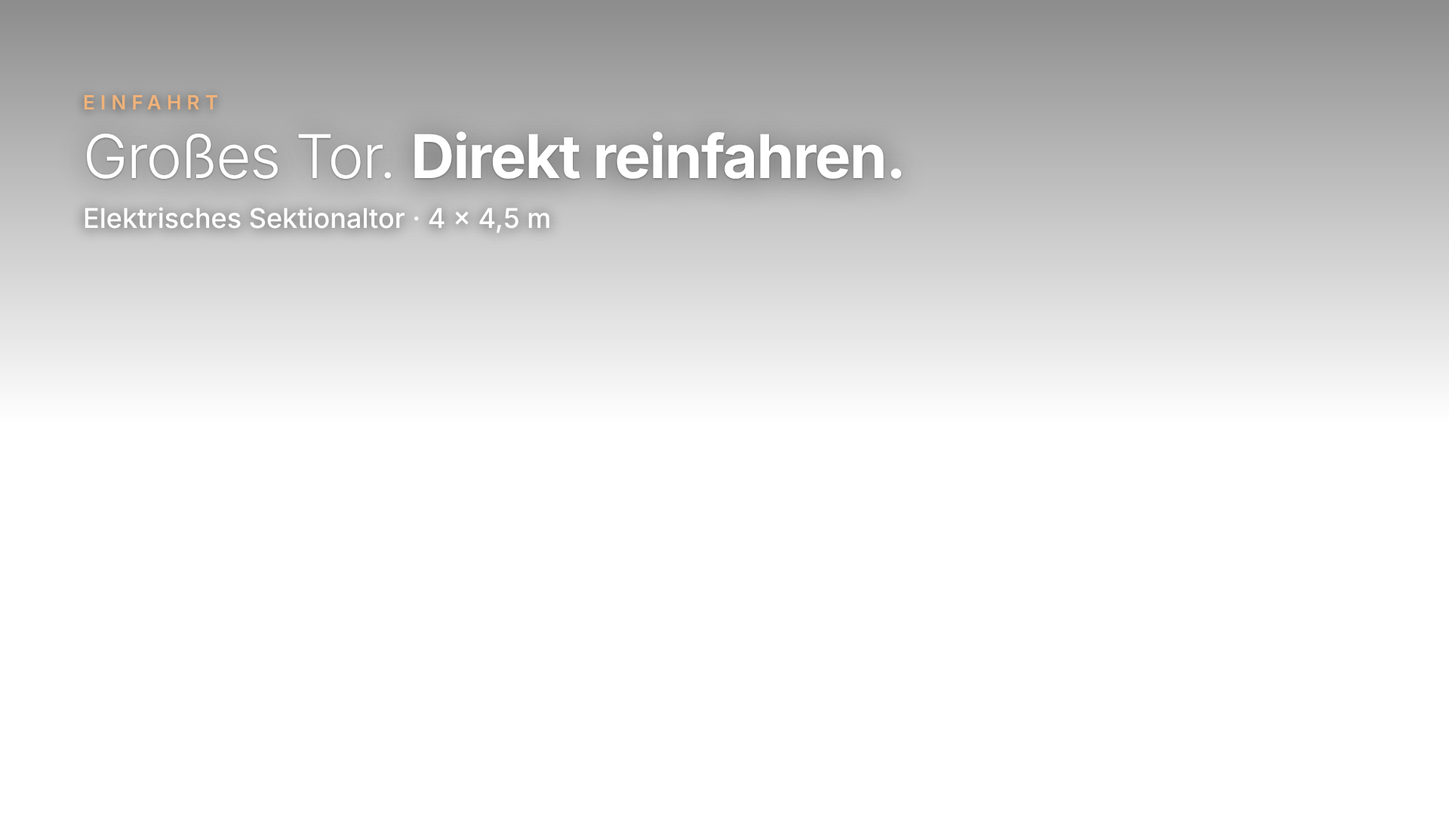
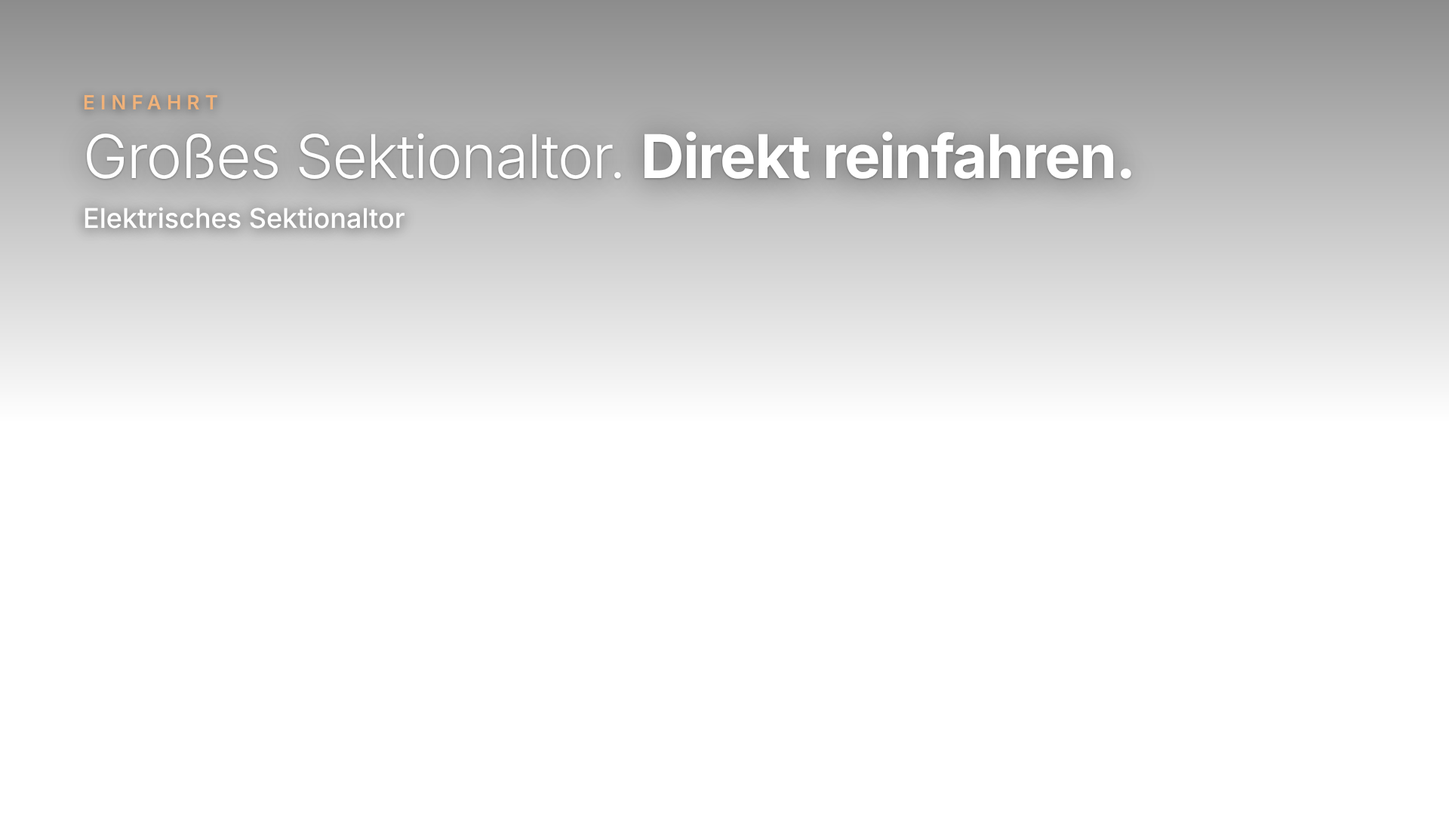
Film 2 v2: Vorschaubild als beschriftete Schnittansicht (16:9, 9:16, eigenes 4:5) mit Fakten, Sektionaltor ohne Maßangabe, Endcard auf ca. 7 s gekürzt
Claude-Session: https://claude.ai/code/session_01XYoivL69tqg2u7xhxccvYQ

Changed region(s): [[0.1875, 0.1528, 0.7812, 0.3056]]

diff --git a/schmacher-werbevideo/3d/titles45.html b/schmacher-werbevideo/3d/titles45.html
@@ -1,0 +1,75 @@
+<!doctype html><html lang="de"><head><meta charset="utf-8"><title>Titel 9:16</title>
+<style>
+html,body{margin:0;background:transparent;width:1080px;height:1350px;overflow:hidden;font-family:Inter,sans-serif;color:#fff}
+.t{position:absolute;left:0;right:0;padding:0 80px;display:none}
+.t.on{display:block}
+.kicker{font-weight:600;letter-spacing:.28em;text-transform:uppercase;font-size:26px;color:#f0b27a;text-shadow:0 2px 14px rgba(0,0,0,.6)}
+.big{font-weight:300;font-size:84px;letter-spacing:-.02em;line-height:1.04;text-shadow:0 4px 40px rgba(0,0,0,.55),0 1px 3px rgba(0,0,0,.35)}
+.big b{font-weight:700}
+.sub{font-weight:500;font-size:36px;line-height:1.3;margin-top:18px;text-shadow:0 2px 18px rgba(0,0,0,.7)}
+.rule{width:72px;height:4px;background:#c27a3e;margin-bottom:26px}
+.top{top:350px}.bot{bottom:400px}
+.scrim-top{position:absolute;left:0;right:0;top:-300px;height:950px;background:linear-gradient(rgba(0,0,0,0) 0%,rgba(0,0,0,.4) 38%,rgba(0,0,0,.3) 60%,rgba(0,0,0,0) 100%)}
+.scrim-bot{position:absolute;left:0;right:0;bottom:-330px;height:950px;background:linear-gradient(rgba(0,0,0,0) 0%,rgba(0,0,0,.3) 40%,rgba(0,0,0,.42) 65%,rgba(0,0,0,0) 100%)}
+#end{position:absolute;inset:0;display:none;flex-direction:column;align-items:center;justify-content:center;
+ background:radial-gradient(ellipse at 50% 42%,#fbfbfc 0%,#eef0f3 70%,#e3e6ea 100%);color:#0f182a;text-align:center}
+#end.on{display:flex}
+#end .logo{width:700px;margin-bottom:40px}
+#end .claim{font-weight:300;font-size:64px;line-height:1.12;color:#2a3242}
+#end .claim b{font-weight:700;color:#0f182a}
+#end .small{font-size:32px;color:#808185;margin-top:22px;line-height:1.4}
+#end .line{width:120px;height:4px;background:#c27a3e;margin:40px 0 34px}
+#end .ph{font-weight:700;font-size:72px;letter-spacing:.03em}
+#end .web{font-weight:500;font-size:38px;color:#2a3242;margin-top:10px}
+#end .mail{font-size:32px;color:#808185;margin-top:6px}
+
+.pill{display:inline-block;background:#c27a3e;color:#fff;font-weight:700;letter-spacing:.18em;text-transform:uppercase;font-size:28px;padding:14px 30px;border-radius:999px;box-shadow:0 6px 24px rgba(0,0,0,.35)}
+#cover .big{font-size:132px;line-height:.98}
+#cover .sub{font-size:46px;font-weight:600;margin-top:28px}
+.card{position:absolute;left:80px;right:80px;background:#fff;border-radius:28px;box-shadow:0 12px 50px rgba(0,0,0,.45);display:flex;align-items:center;gap:34px;padding:26px 36px;color:#0f182a}
+.card img{width:330px}
+.card .r{flex:1;text-align:right}
+.card .k{font-weight:700;letter-spacing:.16em;text-transform:uppercase;font-size:24px;color:#c27a3e}
+.card .p{font-weight:800;font-size:54px;letter-spacing:.02em;margin-top:4px}
+#end .cta{display:flex;flex-direction:column;align-items:center}
+#end .btn{display:flex;align-items:center;gap:16px;background:#c27a3e;color:#fff;font-weight:700;letter-spacing:.16em;text-transform:uppercase;font-size:34px;padding:20px 48px;border-radius:999px;box-shadow:0 10px 30px rgba(194,122,62,.35);margin-bottom:26px}
+#end .btn svg{width:38px;height:38px}
+body.ctaonly #end{background:none} body.ctaonly #end > :not(.cta){visibility:hidden}
+body.nocta #end .cta, body.nocta #end2 .cta{visibility:hidden}
+
+#end2{position:absolute;inset:0;display:none;flex-direction:column;align-items:center;justify-content:center;background:radial-gradient(ellipse at 50% 42%,#fbfbfc 0%,#eef0f3 70%,#e3e6ea 100%);color:#0f182a;text-align:center}
+#end2.on{display:flex}
+#end2 .logo{width:700px;margin-bottom:40px}
+#end2 .claim{font-weight:300;font-size:64px;line-height:1.12;color:#2a3242}
+#end2 .claim b{font-weight:700;color:#0f182a}
+#end2 .small{font-size:32px;color:#808185;margin-top:22px;line-height:1.4}
+#end2 .line{width:120px;height:4px;background:#c27a3e;margin:40px 0 34px}
+#end2 .ph{font-weight:700;font-size:72px;letter-spacing:.03em}
+#end2 .web{font-weight:500;font-size:38px;color:#2a3242;margin-top:10px}
+#end2 .mail{font-size:32px;color:#808185;margin-top:6px}
+#end2 .cta{display:flex;flex-direction:column;align-items:center}
+#end2 .btn{display:flex;align-items:center;gap:16px;background:#c27a3e;color:#fff;font-weight:700;letter-spacing:.16em;text-transform:uppercase;font-size:34px;padding:20px 48px;border-radius:999px;box-shadow:0 10px 30px rgba(194,122,62,.35);margin-bottom:26px}
+#end2 .btn svg{width:38px;height:38px}
+#end2 .cta{visibility:hidden}
+#end3{position:absolute;inset:0;display:none;flex-direction:column;align-items:center;justify-content:center;background:radial-gradient(ellipse at 50% 40%,#fbfbfc 0%,#eef0f3 70%,#e1e4e9 100%);color:#0f182a;text-align:center}
+#end3.on{display:flex}
+#end3 .logo{width:560px;margin-bottom:30px}
+#end3 .claim{font-weight:300;font-size:60px;line-height:1.1;color:#2a3242}
+#end3 .claim b{font-weight:700;color:#0f182a}
+#end3 .call{margin-top:70px;background:linear-gradient(180deg,#d2884a,#b86a2f);border-radius:36px;padding:40px 56px 46px;box-shadow:0 18px 50px rgba(184,106,47,.45);color:#fff;display:flex;flex-direction:column;align-items:center}
+#end3 .call .k{display:flex;align-items:center;gap:16px;font-weight:800;letter-spacing:.2em;text-transform:uppercase;font-size:40px}
+#end3 .call svg{width:44px;height:44px}
+#end3 .call .n{white-space:nowrap;font-weight:800;font-size:112px;letter-spacing:.02em;line-height:1.02;margin-top:6px}
+#end3 .web{font-weight:600;font-size:46px;color:#0f182a;margin-top:50px}
+#end3 .mail{font-size:36px;color:#5d6068;margin-top:6px}
+body.nocta #end3 .cta{visibility:hidden}
+.lab{position:absolute;transform:translate(-50%,-50%);background:#fff;border:4px solid #c27a3e;border-radius:16px;padding:8px 22px;color:#0f182a;font-weight:800;white-space:nowrap;box-shadow:0 8px 24px rgba(15,24,42,.18)}
+.fact{display:inline-flex;align-items:center;gap:14px;background:#0f182a;color:#fff;font-weight:700;font-size:32px;padding:12px 24px 12px 18px;border-radius:999px}
+.fact:before{content:"";width:14px;height:14px;border-radius:50%;background:#e2a066}
+</style>
+</head><body><div class="t on" id="cover2" style="top:0;bottom:0;padding:0;background:#f1f2f4"><img src="cover/cut45.jpg" style="position:absolute;left:0;top:0;width:1080px;height:1350px"><svg width="1080" height="1350" style="position:absolute;left:0;top:0"><line x1="400" y1="1000" x2="534" y2="898" stroke="#c27a3e" stroke-width="4"/><circle cx="534" cy="898" r="9" fill="#c27a3e" stroke="#fff" stroke-width="4"/><line x1="190" y1="640" x2="393" y2="700" stroke="#c27a3e" stroke-width="4"/><circle cx="393" cy="700" r="9" fill="#c27a3e" stroke="#fff" stroke-width="4"/><line x1="180" y1="860" x2="357" y2="827" stroke="#c27a3e" stroke-width="4"/><circle cx="357" cy="827" r="9" fill="#c27a3e" stroke="#fff" stroke-width="4"/><line x1="280" y1="440" x2="483" y2="519" stroke="#c27a3e" stroke-width="4"/><circle cx="483" cy="519" r="9" fill="#c27a3e" stroke="#fff" stroke-width="4"/><line x1="900" y1="780" x2="661" y2="708" stroke="#c27a3e" stroke-width="4"/><circle cx="661" cy="708" r="9" fill="#c27a3e" stroke="#fff" stroke-width="4"/><line x1="880" y1="340" x2="612" y2="446" stroke="#c27a3e" stroke-width="4"/><circle cx="612" cy="446" r="9" fill="#c27a3e" stroke="#fff" stroke-width="4"/></svg><div class="lab" style="left:400px;top:1000px;font-size:34px">Büro</div><div class="lab" style="left:190px;top:640px;font-size:34px">WC</div><div class="lab" style="left:180px;top:860px;font-size:34px">Kaffeeküche</div><div class="lab" style="left:280px;top:440px;font-size:34px">Lager</div><div class="lab" style="left:900px;top:780px;font-size:34px">Halle</div><div class="lab" style="left:880px;top:340px;font-size:34px">Sektionaltor</div>
+<div style="position:absolute;left:0;right:0;top:36px;text-align:center"><div class="pill" style="font-size:24px;padding:10px 26px">Neu in Ebenthal · Kärnten</div>
+<div style="font-weight:800;font-size:92px;line-height:1;color:#0f182a;letter-spacing:-.02em;margin-top:18px">Gewerbepark Ebenthal</div>
+<div style="font-weight:600;font-size:38px;color:#2a3242;margin-top:12px">7 Hallen mit Büro · <span style="color:#c27a3e">Unten Lager. Oben Büro.</span></div></div>
+<div style="position:absolute;left:40px;right:40px;bottom:178px;display:flex;flex-wrap:wrap;justify-content:center;gap:12px"><div class="fact" style="font-size:28px">ca. 150 m² Nutzfläche</div><div class="fact" style="font-size:28px">Fußbodenheizung</div><div class="fact" style="font-size:28px">Großes Sektionaltor</div><div class="fact" style="font-size:28px">Büro · WC · Kaffeeküche</div></div>
+<div class="card" style="left:110px;right:110px;bottom:30px;padding:12px 30px;border-radius:22px"><img src="logo.png" style="width:180px"><div class="r"><div class="k" style="font-size:20px">Jetzt anfragen</div><div class="p" style="font-size:46px">0664 1200745</div></div></div></div></body></html>

diff --git a/schmacher-werbevideo/3d/titles16.html b/schmacher-werbevideo/3d/titles16.html
@@ -63,10 +63,18 @@ body.nocta #end .cta, body.nocta #end2 .cta{visibility:hidden}
 #end3 .web{font-weight:600;font-size:44px;color:#0f182a;margin-top:30px}
 #end3 .mail{font-size:34px;color:#5d6068;margin-top:6px}
 body.nocta #end3 .cta{visibility:hidden}
+.lab{position:absolute;transform:translate(-50%,-50%);background:#fff;border:4px solid #c27a3e;border-radius:16px;padding:8px 22px;color:#0f182a;font-weight:800;white-space:nowrap;box-shadow:0 8px 24px rgba(15,24,42,.18)}
+.fact{display:inline-flex;align-items:center;gap:14px;background:#0f182a;color:#fff;font-weight:700;font-size:30px;padding:12px 24px 12px 18px;border-radius:999px}
+.fact:before{content:"";width:14px;height:14px;border-radius:50%;background:#e2a066}
 </style></head><body>
 <div class="t" id="cover" style="top:0;bottom:0;padding:0"><div style="position:absolute;inset:0;background:linear-gradient(90deg,rgba(0,0,0,.62) 0%,rgba(0,0,0,.4) 40%,rgba(0,0,0,0) 68%)"></div>
 <div style="position:absolute;left:110px;top:150px"><div class="pill">Neu in Ebenthal · Kärnten</div><div class="big" style="margin-top:30px;font-size:124px">Gewerbepark<br><b>Ebenthal</b></div><div class="sub">7 Hallen mit Büro · <span style="color:#f0b27a">Unten Lager. Oben Büro.</span></div></div>
 <div class="card" style="left:110px;right:auto;bottom:110px;width:760px"><img src="logo.png" style="width:300px"><div class="r"><div class="k">Jetzt anfragen</div><div class="p">0664 1200745</div></div></div></div>
+<div class="t" id="cover2" style="top:0;bottom:0;padding:0;background:#f1f2f4"><img src="cover/cut16.jpg" style="position:absolute;left:0;top:0;width:1920px;height:1080px"><svg width="1920" height="1080" style="position:absolute;left:0;top:0"><line x1="1010" y1="835" x2="1157" y2="694" stroke="#c27a3e" stroke-width="4"/><circle cx="1157" cy="694" r="10" fill="#c27a3e" stroke="#fff" stroke-width="4"/><line x1="930" y1="300" x2="1049" y2="385" stroke="#c27a3e" stroke-width="4"/><circle cx="1049" cy="385" r="10" fill="#c27a3e" stroke="#fff" stroke-width="4"/><line x1="830" y1="455" x2="933" y2="543" stroke="#c27a3e" stroke-width="4"/><circle cx="933" cy="543" r="10" fill="#c27a3e" stroke="#fff" stroke-width="4"/><line x1="1215" y1="120" x2="1302" y2="258" stroke="#c27a3e" stroke-width="4"/><circle cx="1302" cy="258" r="10" fill="#c27a3e" stroke="#fff" stroke-width="4"/><line x1="1680" y1="735" x2="1523" y2="640" stroke="#c27a3e" stroke-width="4"/><circle cx="1523" cy="640" r="10" fill="#c27a3e" stroke="#fff" stroke-width="4"/><line x1="1735" y1="330" x2="1552" y2="238" stroke="#c27a3e" stroke-width="4"/><circle cx="1552" cy="238" r="10" fill="#c27a3e" stroke="#fff" stroke-width="4"/></svg><div class="lab" style="left:1010px;top:835px;font-size:34px">Büro</div><div class="lab" style="left:930px;top:300px;font-size:34px">WC</div><div class="lab" style="left:830px;top:455px;font-size:34px">Kaffeeküche</div><div class="lab" style="left:1215px;top:120px;font-size:34px">Lager</div><div class="lab" style="left:1680px;top:735px;font-size:34px">Halle</div><div class="lab" style="left:1735px;top:330px;font-size:34px">Sektionaltor</div><div style="position:absolute;left:90px;top:80px;width:700px"><div class="pill">Neu in Ebenthal · Kärnten</div>
+<div style="font-weight:800;font-size:104px;line-height:.98;color:#0f182a;letter-spacing:-.02em;margin-top:26px">Gewerbepark<br>Ebenthal</div>
+<div style="font-weight:600;font-size:38px;color:#2a3242;margin-top:20px">7 Hallen mit Büro<br><span style="color:#c27a3e">Unten Lager. Oben Büro.</span></div>
+<div style="margin-top:30px;display:flex;flex-direction:column;gap:12px;align-items:flex-start"><div class="fact">ca. 150 m² Nutzfläche</div><div class="fact">Fußbodenheizung</div><div class="fact">Großes Sektionaltor</div><div class="fact">Büro · WC · Kaffeeküche</div></div></div>
+<div class="card" style="left:90px;right:auto;bottom:70px;width:700px;padding:18px 30px"><img src="logo.png" style="width:270px"><div class="r"><div class="k">Jetzt anfragen</div><div class="p" style="font-size:50px">0664 1200745</div></div></div></div>
 <div class="t" id="hook" style="padding:0;top:0;bottom:0"><div style="position:absolute;left:0;right:0;bottom:0;height:520px;background:linear-gradient(rgba(0,0,0,0),rgba(0,0,0,.5))"></div><div style="position:absolute;left:110px;bottom:110px"><div class="kicker">Gewerbepark Ebenthal · Schmacher Solutions</div><div class="big" style="font-size:80px;margin-top:14px">Dein Business wächst.<br><b>Dein Zuhause nicht?</b></div></div></div>
 <div class="t" id="slogan" style="padding:0;top:0;bottom:0"><div style="position:absolute;left:0;right:0;top:0;height:560px;background:linear-gradient(rgba(0,0,0,.45),rgba(0,0,0,0))"></div><div style="position:absolute;left:110px;top:150px"><div class="rule"></div><div class="big" style="font-size:92px">Unten Lager.<br><b>Oben Büro.</b></div></div></div>
 <div class="t" id="code" style="padding:0;top:0;bottom:0"><div style="position:absolute;left:0;right:0;top:0;height:560px;background:linear-gradient(rgba(0,0,0,.45),rgba(0,0,0,0))"></div><div style="position:absolute;left:110px;top:140px"><div class="kicker">Tore</div><div class="big" style="font-size:72px;margin-top:14px">Elektrische Tore.<br><b>Einfach reinfahren.</b></div></div></div>
@@ -79,7 +87,7 @@ body.nocta #end3 .cta{visibility:hidden}
 <div class="t" id="kueche" style="padding:0;top:0;bottom:0"><div style="position:absolute;left:0;right:0;bottom:0;height:520px;background:linear-gradient(rgba(0,0,0,0),rgba(0,0,0,.5))"></div><div style="position:absolute;left:110px;bottom:110px"><div class="big" style="font-size:80px">Mit <b>WC</b> &amp; <b>Kaffeeküche.</b></div><div class="sub">Küchenanschluss optional</div></div></div>
 <div class="t" id="hallen2" style="padding:0;top:0;bottom:0"><div style="position:absolute;left:0;right:0;top:0;height:560px;background:linear-gradient(rgba(0,0,0,.45),rgba(0,0,0,0))"></div><div style="position:absolute;left:0;right:0;top:120px;text-align:center"><div class="kicker">Gewerbepark Ebenthal</div><div class="big" style="font-size:84px;margin-top:14px"><b>7 Hallen</b> mit Büro</div></div></div>
 <div class="t" id="lager3" style="padding:0;top:0;bottom:0"><div style="position:absolute;left:0;right:0;bottom:0;height:520px;background:linear-gradient(rgba(0,0,0,0),rgba(0,0,0,.5))"></div><div style="position:absolute;left:110px;bottom:110px"><div class="kicker">Platz für alles</div><div class="big" style="font-size:80px;margin-top:14px">Werkbank, Stapler, <b>Regale.</b></div><div class="sub">Lager, Werkstatt, Ausstellung – du entscheidest</div></div></div>
-<div class="t" id="tor" style="padding:0;top:0;bottom:0"><div style="position:absolute;left:0;right:0;top:0;height:560px;background:linear-gradient(rgba(0,0,0,.45),rgba(0,0,0,0))"></div><div style="position:absolute;left:110px;top:120px"><div class="kicker">Einfahrt</div><div class="big" style="font-size:80px;margin-top:14px">Großes Tor. <b>Direkt reinfahren.</b></div><div class="sub">Elektrisches Sektionaltor · 4 × 4,5 m</div></div></div>
+<div class="t" id="tor" style="padding:0;top:0;bottom:0"><div style="position:absolute;left:0;right:0;top:0;height:560px;background:linear-gradient(rgba(0,0,0,.45),rgba(0,0,0,0))"></div><div style="position:absolute;left:110px;top:120px"><div class="kicker">Einfahrt</div><div class="big" style="font-size:80px;margin-top:14px">Großes Sektionaltor. <b>Direkt reinfahren.</b></div><div class="sub">Elektrisches Sektionaltor</div></div></div>
 <div id="end3"><img class="logo" src="logo.png"><div class="claim">Licht an –<br><b>für dein Business.</b></div>
 <div class="cta" style="display:flex;flex-direction:column;align-items:center"><div class="call"><div class="k"><svg viewBox="0 0 24 24" fill="#fff"><path d="M6.6 10.8a15.1 15.1 0 0 0 6.6 6.6l2.2-2.2c.3-.3.7-.4 1-.2 1.1.4 2.3.6 3.6.6.6 0 1 .4 1 1V20c0 .6-.4 1-1 1A17 17 0 0 1 3 4c0-.6.4-1 1-1h3.5c.6 0 1 .4 1 1 0 1.3.2 2.5.6 3.6.1.3 0 .7-.2 1l-2.3 2.2z"/></svg>Jetzt anrufen</div><div class="n">0664 1200745</div></div><div class="web">www.gewerbepark-klagenfurt.at</div><div class="mail">office@gewerbepark-klagenfurt.at</div></div></div>
 <div id="end2" class="endx"><img class="logo" src="logo.png"><div class="claim">Licht an –<br><b>für dein Business.</b></div>

diff --git a/schmacher-werbevideo/3d/titlesV.html b/schmacher-werbevideo/3d/titlesV.html
@@ -63,10 +63,18 @@ body.nocta #end .cta, body.nocta #end2 .cta{visibility:hidden}
 #end3 .web{font-weight:600;font-size:46px;color:#0f182a;margin-top:50px}
 #end3 .mail{font-size:36px;color:#5d6068;margin-top:6px}
 body.nocta #end3 .cta{visibility:hidden}
+.lab{position:absolute;transform:translate(-50%,-50%);background:#fff;border:4px solid #c27a3e;border-radius:16px;padding:8px 22px;color:#0f182a;font-weight:800;white-space:nowrap;box-shadow:0 8px 24px rgba(15,24,42,.18)}
+.fact{display:inline-flex;align-items:center;gap:14px;background:#0f182a;color:#fff;font-weight:700;font-size:32px;padding:12px 24px 12px 18px;border-radius:999px}
+.fact:before{content:"";width:14px;height:14px;border-radius:50%;background:#e2a066}
 </style></head><body>
 <div class="t" id="cover" style="top:0;bottom:0;padding:0"><div style="position:absolute;inset:0;background:linear-gradient(rgba(0,0,0,.62) 0%,rgba(0,0,0,.35) 38%,rgba(0,0,0,0) 58%,rgba(0,0,0,0) 72%,rgba(0,0,0,.45) 100%)"></div>
 <div style="position:absolute;left:80px;right:80px;top:350px"><div class="pill">Neu in Ebenthal · Kärnten</div><div class="big" style="margin-top:34px">Gewerbepark<br><b>Ebenthal</b></div><div class="sub">7 Hallen mit Büro<br><span style="color:#f0b27a">Unten Lager. Oben Büro.</span></div></div>
 <div class="card" style="bottom:330px"><img src="logo.png"><div class="r"><div class="k">Jetzt anfragen</div><div class="p">0664 1200745</div></div></div></div>
+<div class="t" id="cover2" style="top:0;bottom:0;padding:0;background:#f1f2f4"><img src="cover/cutV.jpg" style="position:absolute;left:0;top:0;width:1080px;height:1920px"><svg width="1080" height="1920" style="position:absolute;left:0;top:0"><line x1="400" y1="1395" x2="539" y2="1254" stroke="#c27a3e" stroke-width="4"/><circle cx="539" cy="1254" r="10" fill="#c27a3e" stroke="#fff" stroke-width="4"/><line x1="150" y1="860" x2="324" y2="952" stroke="#c27a3e" stroke-width="4"/><circle cx="324" cy="952" r="10" fill="#c27a3e" stroke="#fff" stroke-width="4"/><line x1="180" y1="1300" x2="269" y2="1145" stroke="#c27a3e" stroke-width="4"/><circle cx="269" cy="1145" r="10" fill="#c27a3e" stroke="#fff" stroke-width="4"/><line x1="280" y1="560" x2="463" y2="677" stroke="#c27a3e" stroke-width="4"/><circle cx="463" cy="677" r="10" fill="#c27a3e" stroke="#fff" stroke-width="4"/><line x1="935" y1="1060" x2="734" y2="966" stroke="#c27a3e" stroke-width="4"/><circle cx="734" cy="966" r="10" fill="#c27a3e" stroke="#fff" stroke-width="4"/><line x1="850" y1="470" x2="661" y2="566" stroke="#c27a3e" stroke-width="4"/><circle cx="661" cy="566" r="10" fill="#c27a3e" stroke="#fff" stroke-width="4"/></svg><div class="lab" style="left:400px;top:1395px;font-size:40px">Büro</div><div class="lab" style="left:150px;top:860px;font-size:40px">WC</div><div class="lab" style="left:180px;top:1300px;font-size:40px">Kaffeeküche</div><div class="lab" style="left:280px;top:560px;font-size:40px">Lager</div><div class="lab" style="left:935px;top:1060px;font-size:40px">Halle</div><div class="lab" style="left:850px;top:470px;font-size:40px">Sektionaltor</div><div style="position:absolute;left:0;right:0;top:70px;text-align:center"><div class="pill">Neu in Ebenthal · Kärnten</div>
+<div style="font-weight:800;font-size:104px;line-height:1;color:#0f182a;letter-spacing:-.02em;margin-top:26px">Gewerbepark<br>Ebenthal</div>
+<div style="font-weight:600;font-size:42px;color:#2a3242;margin-top:18px">7 Hallen mit Büro · <span style="color:#c27a3e">Unten Lager. Oben Büro.</span></div></div>
+<div style="position:absolute;left:50px;right:50px;bottom:262px;display:flex;flex-wrap:wrap;justify-content:center;gap:14px"><div class="fact">ca. 150 m² Nutzfläche</div><div class="fact">Fußbodenheizung</div><div class="fact">Großes Sektionaltor</div><div class="fact">Büro · WC · Kaffeeküche</div></div>
+<div class="card" style="left:90px;right:90px;bottom:50px;padding:18px 34px"><img src="logo.png" style="width:240px"><div class="r"><div class="k">Jetzt anfragen</div><div class="p">0664 1200745</div></div></div></div>
 <div class="t top" id="hook"><div class="scrim-top"></div><div style="position:relative"><div class="kicker">Gewerbepark Ebenthal · Schmacher Solutions</div><div class="big" style="margin-top:18px">Dein Business wächst.<br><b>Dein Zuhause nicht?</b></div></div></div>
 <div class="t top" id="slogan"><div class="scrim-top"></div><div style="position:relative"><div class="rule"></div><div class="big">Raus aus der Garage.<br><b>Rein in den Gewerbepark.</b></div></div></div>
 <div class="t top" id="code"><div class="scrim-top"></div><div style="position:relative"><div class="kicker">Tore</div><div class="big" style="margin-top:14px">Elektrische Tore.<br><b>Einfach reinfahren.</b></div></div></div>
@@ -81,7 +89,7 @@ body.nocta #end3 .cta{visibility:hidden}
 <div class="t bot" id="kueche"><div class="scrim-bot"></div><div style="position:relative"><div class="big">Mit <b>WC</b><br>&amp; <b>Kaffeeküche.</b></div><div class="sub">Küchenanschluss optional</div></div></div>
 <div class="t top" id="hallen2"><div class="scrim-top"></div><div style="position:relative;text-align:center"><div class="kicker">Gewerbepark Ebenthal</div><div class="big" style="margin-top:14px"><b>7 Hallen</b> mit Büro</div></div></div>
 <div class="t bot" id="lager3"><div class="scrim-bot"></div><div style="position:relative"><div class="kicker">Platz für alles</div><div class="big" style="margin-top:14px">Werkbank, Stapler,<br><b>Regale.</b></div><div class="sub">Lager, Werkstatt, Ausstellung –<br>du entscheidest</div></div></div>
-<div class="t top" id="tor"><div class="scrim-top"></div><div style="position:relative"><div class="kicker">Einfahrt</div><div class="big" style="margin-top:14px">Großes Tor.<br><b>Direkt reinfahren.</b></div><div class="sub">Elektrisches Sektionaltor · 4 × 4,5 m</div></div></div>
+<div class="t top" id="tor"><div class="scrim-top"></div><div style="position:relative"><div class="kicker">Einfahrt</div><div class="big" style="margin-top:14px">Großes Sektionaltor.<br><b>Direkt reinfahren.</b></div><div class="sub">Elektrisches Sektionaltor</div></div></div>
 <div id="end3"><img class="logo" src="logo.png"><div class="claim">Licht an –<br><b>für dein Business.</b></div>
 <div class="cta" style="display:flex;flex-direction:column;align-items:center"><div class="call"><div class="k"><svg viewBox="0 0 24 24" fill="#fff"><path d="M6.6 10.8a15.1 15.1 0 0 0 6.6 6.6l2.2-2.2c.3-.3.7-.4 1-.2 1.1.4 2.3.6 3.6.6.6 0 1 .4 1 1V20c0 .6-.4 1-1 1A17 17 0 0 1 3 4c0-.6.4-1 1-1h3.5c.6 0 1 .4 1 1 0 1.3.2 2.5.6 3.6.1.3 0 .7-.2 1l-2.3 2.2z"/></svg>Jetzt anrufen</div><div class="n">0664 1200745</div></div><div class="web">www.gewerbepark-klagenfurt.at</div><div class="mail">office@gewerbepark-klagenfurt.at</div></div></div>
 <div id="end2" class="endx"><img class="logo" src="logo.png"><div class="claim">Licht an –<br><b>für dein Business.</b></div>

diff --git a/schmacher-werbevideo/3d/scene.js b/schmacher-werbevideo/3d/scene.js
@@ -743,7 +743,7 @@ function film2Van() {
   b(2.0, 2.05, 4.35, white, 0, 0.38 + 1.025, 1.05 + 2.175);    // Kofferaufbau
   b(1.98, 0.92, 1.1, white, 0, 0.38 + 0.46, 0.55);             // Motorhaube
   const ws = b(1.86, 1.42, 0.05, glass, 0, 1.92, 0.62); ws.rotation.x = Math.atan2(0.85, 1.15); // Frontscheibe
-  b(1.97, 1.2, 0.9, white, 0, 1.92, 1.12).scale.set(1, 1, 1);
+  b(1.97, 1.2, 0.9, white, 0, 1.92, 1.12); const wd = b(1.97, 1.3, 0.5, white, 0, 1.84, 0.83); wd.rotation.x = Math.atan2(0.85, 1.15); // Kabine hinter der Scheibe
   for (const sx of [-1, 1]) { b(0.02, 0.62, 0.8, glass, sx * 1.0, 1.95, 1.4); b(0.02, 0.12, 4.0, orange, sx * 1.002, 1.05, 3.1); b(0.06, 0.12, 0.2, dark, sx * 1.08, 1.85, 0.95); }
   b(2.04, 0.28, 0.16, dark, 0, 0.5, 0.0); b(1.3, 0.3, 0.03, dark, 0, 0.92, -0.01);   // Stoßfänger, Grill
   for (const sx of [-1, 1]) { b(0.36, 0.13, 0.03, head, sx * 0.74, 1.04, -0.015); b(0.1, 0.32, 0.03, tail, sx * 0.94, 1.15, 5.41); }
@@ -1003,7 +1003,29 @@ function applyTitles(t) {
   }
 }
 
+// Schnittansicht (Vorschaubild): nur Einheit 4 innen, ohne Decke, heller Hintergrund
+const CUT = params.get('cut') === '1';
+const CUTLOOK = { elev: 58, azim: 215, turbidity: 3, rayleigh: 1.2, mie: 0.004, sunI: 2.2, sunColor: 0xfff1e0, hemiI: 0.9, hemiSky: 0xdfe8ff, exposure: 0.62, fog: 0xffffff, fogD: 0, envI: 0.9, intI: 0.6, bloom: 0.05 };
+if (CUT) {
+  for (const o of scene.children) if (!(o === interior || o.isLight || o === F2.van || heroTor.secs.includes(o))) o.visible = false;
+  scene.background = new THREE.Color(0xf1f2f4);
+  const gnd = new THREE.Mesh(new THREE.PlaneGeometry(400, 400), new THREE.MeshStandardMaterial({ color: 0xeceef1, roughness: 1 })); gnd.rotation.x = -Math.PI / 2; gnd.position.y = -0.02; gnd.receiveShadow = true; scene.add(gnd);
+  renderer.clippingPlanes = [new THREE.Plane(new THREE.Vector3(0, -1, 0), 5.7)];
+  // Mauerkronen der beiden sichtbaren Wände
+  const capM = new THREE.MeshStandardMaterial({ color: 0x9aa0a8, roughness: 0.8 });
+  const cap = (w, d, x, z) => { const m = new THREE.Mesh(new THREE.BoxGeometry(w, 0.06, d), capM); m.position.set(x, 5.67, z); scene.add(m); };
+  cap(0.24, 15.0, heroX1 - 0.02, -7.5); cap(heroX1 - heroX0 + 0.2, 0.24, (heroX0 + heroX1) / 2, -0.08);
+}
+window.cutProject = pts => pts.map(p => { const v = new THREE.Vector3(...p).project(camera); return [(v.x + 1) / 2 * W, (1 - v.y) / 2 * H]; });
 window.renderAt = function (t) {
+  if (CUT) {
+    applyLook(CUTLOOK); const c = (params.get('cam') || '9.5,18.5,-25.5').split(',').map(Number), tg = (params.get('tgt') || '24.3,1.4,-7.2').split(',').map(Number);
+    camera.position.set(...c); camera.up.set(0, 1, 0); camera.fov = parseFloat(params.get('fov') || '28'); camera.aspect = W / H; camera.lookAt(...tg); camera.updateProjectionMatrix();
+    setShadowBox(new THREE.Vector3(24.3, 0, -7.5), 14); heroTor.set(0); interior.visible = true;
+    applyAnims(999, 999); film2Light(999); film2Extras(1.0);
+    F2.van.visible = true; F2.van.position.set(heroX0 + 4.3, 0.04, -5.7); F2.vanSpots.forEach(s => s.intensity = 0);
+    if (gtao) gtao.blendIntensity = 0.9; grade.uniforms.fade.value = 0; composer.render(); return true;
+  }
   const { s, lt, k } = shotAt(t);
   applyLook(s.look);
   const kk = (s.ease || easeIO)(k);

diff --git a/schmacher-werbevideo/edit2.py b/schmacher-werbevideo/edit2.py
@@ -4,14 +4,20 @@ sys.path.insert(0, os.path.join(os.path.dirname(os.path.abspath(__file__)), 'aud
 os.chdir(os.path.dirname(os.path.abspath(__file__)))
 from edit import compose, run, FPS, OUT
 from sound import *
-L, LAST = 54.65, 44.45   # Bilder bis 44,45 s, danach steht das letzte Bild unter der Endcard
-TT = [('cover', 0.0, 2.3), ('stell', 2.35, 4.4), ('deins', 7.25, 10.65), ('lager2', 11.65, 17.4), ('lager3', 18.0, 22.95), ('tor', 23.6, 27.6),
-      ('buero2', 32.15, 36.55), ('kueche', 37.05, 40.15), ('hallen2', 40.55, 43.15), ('end3', 43.25, L + 1), ('end3cta', 44.4, L + 1)]
+L, LAST = 50.6, 44.45   # Bilder bis 44,45 s, danach steht das letzte Bild unter der Endcard
+TT = [('cover2', 0.0, 2.3), ('stell', 2.35, 4.4), ('deins', 7.25, 10.65), ('lager2', 11.65, 17.4), ('lager3', 18.0, 22.95), ('tor', 23.6, 27.6),
+      ('buero2', 32.15, 36.55), ('kueche', 37.05, 40.15), ('hallen2', 40.55, 43.15), ('end3', 43.25, L + 1), ('end3cta', 44.35, L + 1)]
 FR = {'frames2': 'frames3', 'frames2V': 'frames3V'}
 N = 'Schmacher_Gewerbepark_LichtAn'
-def full(fr, tdir, name, crf):
+def titles45():  # 4:5: Titel aus 9:16 mittig beschnitten, eigenes Vorschaubild
+    from PIL import Image
+    os.makedirs('3d/titles45', exist_ok=True)
+    for tid, a, b in TT:
+        if tid == 'cover2': continue
+        Image.open(f'3d/titlesV/{tid}.png').crop((0, 285, 1080, 1635)).save(f'3d/titles45/{tid}.png')
+def full(fr, tdir, name, crf, crop=''):
     compose(['-framerate', '24', '-i', f'3d/{FR[fr]}/f%05d.jpg'], tdir, TT, L, 'audio/out_film2.wav', f'{OUT}/{name}.mp4', crf,
-            pre=f'trim=end={LAST}:start=0,setpts=PTS-STARTPTS,tpad=stop_mode=clone:stop_duration={L - LAST + 0.5:.2f}')
+            pre=f'{crop}trim=end={LAST}:start=0,setpts=PTS-STARTPTS,tpad=stop_mode=clone:stop_duration={L - LAST + 0.5:.2f}')
 def teaser():
     segs = [(0.0, 1.6), (2.25, 5.4), (24.3, 27.6), (33.0, 36.0)]; frames = []; cuts = []
     for a, b in segs:
@@ -33,13 +39,13 @@ def teaser():
     V = 'audio/vo/raw_%s.wav'
     vo = [(V % 'f2_01', cuts[1] + 0.2, 1.0), (V % 'f2_10', cuts[2] + 0.25, 1.0), (V % 'f2_05', cuts[3] + 0.3, 1.0), (V % 'f2_08', te + 0.2, 1.0), (V % '09', te + 2.3, 1.05)]
     wav = mix(LT, mu, fx, vo, f'{OUT}/{N}_Teaser15s.wav')
-    T2 = [('cover', 0.0, cuts[1] + 0.05), ('stell', cuts[1] + 0.1, cuts[2] - 0.05), ('tor', cuts[2] + 0.2, cuts[3] - 0.05), ('buero2', cuts[3] + 0.2, te), ('end3', te, LT + 1), ('end3cta', te + 0.9, LT + 1)]
+    T2 = [('cover2', 0.0, cuts[1] + 0.05), ('stell', cuts[1] + 0.1, cuts[2] - 0.05), ('tor', cuts[2] + 0.2, cuts[3] - 0.05), ('buero2', cuts[3] + 0.2, te), ('end3', te, LT + 1), ('end3cta', te + 0.9, LT + 1)]
     compose(['-f', 'concat', '-safe', '0', '-i', f'{OUT}/teaser2.ffconcat'], '3d/titlesV', T2, LT, wav, f'{OUT}/{N}_9x16_Teaser15s.mp4', 18)
 if __name__ == '__main__':
     subprocess.run([sys.executable, 'mix_film2.py'], cwd='audio', check=True)
     full('frames2', '3d/titles16', f'{N}_16x9', 17)
     full('frames2V', '3d/titlesV', f'{N}_9x16', 18)
-    run(['ffmpeg', '-y', '-v', 'error', '-i', f'{OUT}/{N}_9x16.mp4', '-vf', 'crop=1080:1350:0:285', '-c:v', 'libx264', '-preset', 'slow', '-crf', '18', '-c:a', 'copy', '-movflags', '+faststart', f'{OUT}/{N}_4x5.mp4'])
+    titles45(); full('frames2V', '3d/titles45', f'{N}_4x5', 18, crop='crop=1080:1350:0:285,')
     teaser()
     for n in ['16x9', '9x16', '4x5', '9x16_Teaser15s']:
         run(['ffmpeg', '-y', '-v', 'error', '-i', f'{OUT}/{N}_{n}.mp4', '-frames:v', '1', '-q:v', '2', f'{OUT}/Vorschaubild_LichtAn_{n}.jpg'])

diff --git a/schmacher-werbevideo/audio/mix_film2.py b/schmacher-werbevideo/audio/mix_film2.py
@@ -1,7 +1,7 @@
 # Ton für Film 2 „Licht an.“ (gleiche Zeitachse für 16:9 und 9:16)
 import sys; sys.path.insert(0, '.')
 from sound import *
-L = 54.65
+L = 50.6
 C, INS = 2.25, 10.0   # Vorschaubild-Länge, eingeschobener Rundumschwenk + Tor
 def A(t): return t + C if t < 15.5 else t + C + INS   # Aufbau-Zeit -> Video-Zeit
 tt = lambda d: np.arange(T(d)) / SR
@@ -37,7 +37,7 @@ def engine(d):  # Transporter fährt herein (wird lauter, Diesel-Brummen)
     g = np.minimum(1, t / (d * 0.55)) ** 1.5 * np.minimum(1, (d - t) / 0.6); s = lp(s * g, 900); return np.stack([s * 0.9, s], 1) * 0.55
 
 if __name__ == '__main__':
-    mu = music(L, t_pulse=A(4.5), t_drop=A(8.9), t_break=A(28.0), t_logo=A(31.0), t_cta=44.65)
+    mu = music(L, t_pulse=A(4.5), t_drop=A(8.9), t_break=A(28.0), t_logo=A(31.0), t_cta=44.35)
     fade = np.clip((np.arange(len(mu)) / SR - 3.3) / 1.4, 0, 1); mu *= fade[:, None]
     fx = ambience(L, [(0.0, A(28.2), 'interior'), (A(28.0), L, 'night')])
     fx[:T(3.2)] *= 0.25
@@ -66,7 +66,7 @@ if __name__ == '__main__':
     add(fx, whoosh(1.0, 0.6), A(27.6), 0.4); add(fx, whoosh(0.7, 0.65), A(15.1), 0.25); add(fx, whoosh(0.7, 0.65), A(19.25), 0.25); add(fx, whoosh(0.7, 0.65), A(24.2), 0.25)
     V = 'vo/raw_%s.wav'
     vo = [(V % 'f2_01', 2.45, 1.0), (V % 'f2_02', 7.55, 1.0), (V % 'f2_03', 11.85, 1.0), (V % 'f2_09', 17.95, 1.0), (V % 'f2_10', 24.6, 1.0),
-          (V % 'f2_04', A(16.6), 1.0), (V % 'f2_05', A(19.9), 1.0), (V % 'f2_06', A(25.0), 1.0), (V % 'f2_07', A(28.4), 1.0),
-          (V % 'f2_08', 43.6, 1.0), (V % '09', 46.4, 1.0), (V % '10', 49.0, 1.08)]
+          (V % 'f2_04', A(16.6), 1.0), (V % 'f2_05', A(19.9), 1.0), (V % 'f2_06', A(25.0), 1.0), (V % 'f2_07', 40.3, 1.0),
+          (V % '09', 43.4, 1.0), (V % '10', 45.75, 1.08)]
     mix(L, mu, fx, vo, 'out_film2.wav')
     print('ok')
